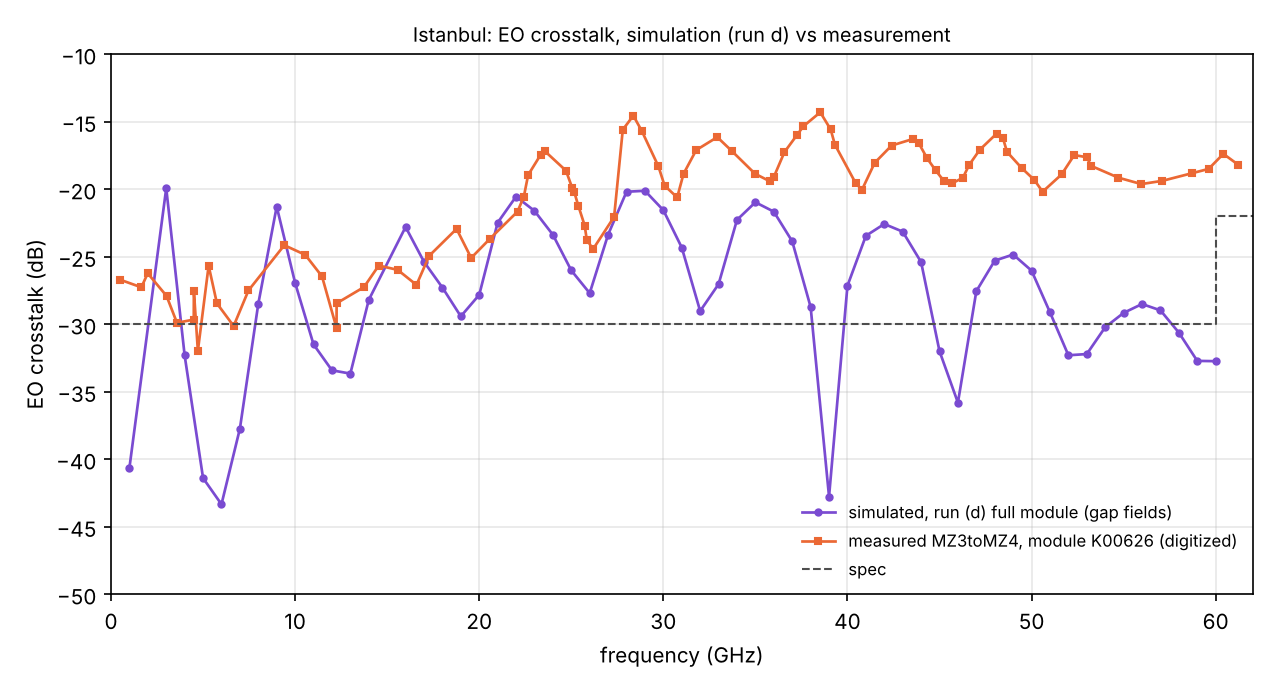
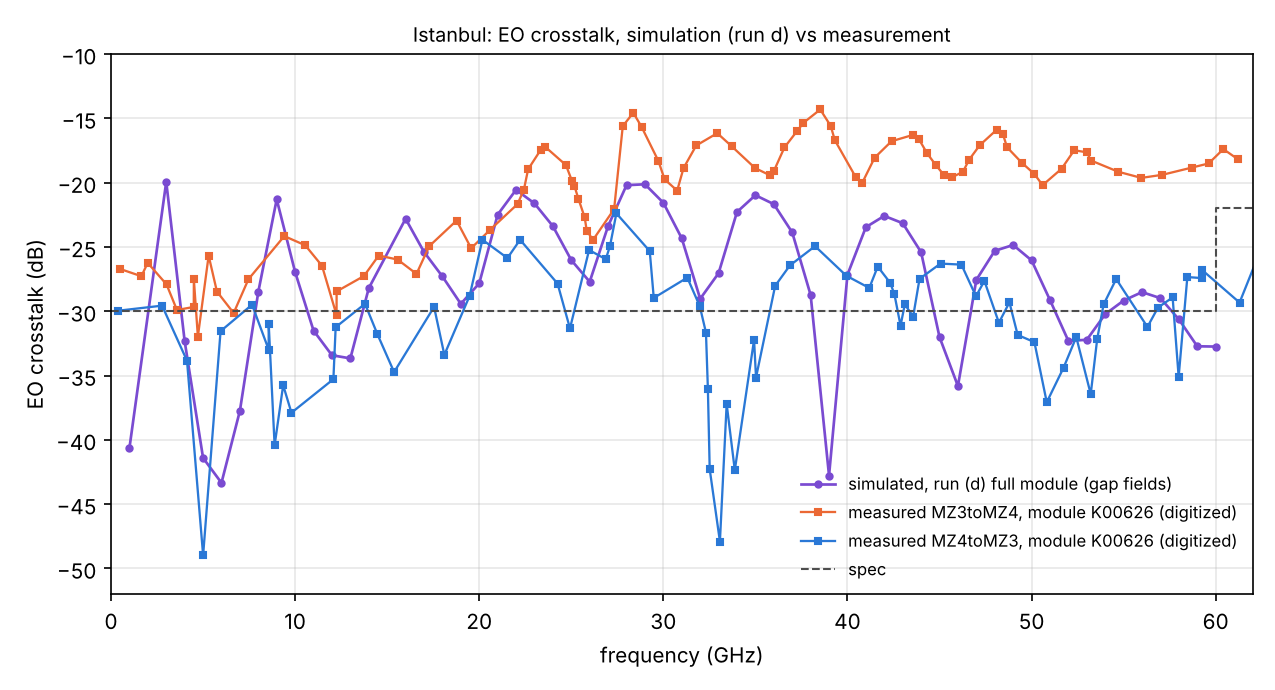
Istanbul run (d): add measured MZ4toMZ3 (digitized) to the simulation-measurement comparison
Claude-Session: https://claude.ai/code/session_01PF7RKNjFsSkyjm1syGCUrV

diff --git a/docs/cst/xtalk/istanbul_run_d/compare_lab.py b/docs/cst/xtalk/istanbul_run_d/compare_lab.py
@@ -1,25 +1,28 @@
-"""Run (d) simulated EO crosstalk vs the measured curve MZ3toMZ4 (module K00626, extracted from the lab plot)."""
+"""Run (d) simulated EO crosstalk vs the measured curves MZ3toMZ4 and MZ4toMZ3 (module K00626, digitized from the lab plot).
+MZ4toMZ3: axis mapping assumed (see lab_MZ4toMZ3_extracted.csv)."""
 import os
 import numpy as np, matplotlib
 matplotlib.use("Agg"); import matplotlib.pyplot as plt
 HERE = os.path.dirname(os.path.abspath(__file__))
 s = np.loadtxt(os.path.join(HERE, "xtalk_run_d.csv"), delimiter=",", skiprows=1)
-m = np.loadtxt(os.path.join(HERE, "lab_MZ3toMZ4_extracted.csv"), delimiter=",", skiprows=2)
-m = m[np.argsort(m[:, 0])]
+rd = lambda n, sk: (lambda a: a[np.argsort(a[:, 0])])(np.loadtxt(os.path.join(HERE, n), delimiter=",", skiprows=sk))
+M = {"MZ3toMZ4": rd("lab_MZ3toMZ4_extracted.csv", 2), "MZ4toMZ3": rd("lab_MZ4toMZ3_extracted.csv", 3)}
 fs, eo = s[:, 0], s[:, 3]
 def period(f, y, lo=5, hi=60, df=0.1):
     g = np.arange(lo, hi, df); v = np.interp(g, f, y); v -= v.mean()
     sp = np.abs(np.fft.rfft(v * np.hanning(len(v)))); fr = np.fft.rfftfreq(len(v), df)
     k = (fr > 1 / 15) & (fr < 1 / 2); return 1 / fr[k][np.argmax(sp[k])]
-km, ks = (m[:, 0] >= 5) & (m[:, 0] <= 60), (fs >= 5)
-g = np.arange(5, 60.01, 0.5); mi = np.interp(g, m[:, 0], m[:, 1])  # uniform grid: digitized points are unevenly spaced
-print(f"median 5-60 GHz: measured {np.median(mi):.1f} dB (uniform grid), simulated {np.median(eo[ks]):.1f} dB")
-print(f"max 5-60 GHz: measured {mi.max():.1f} dB, simulated {eo[ks].max():.1f} dB")
-print(f"ripple period 5-60 GHz: measured {period(*m.T):.1f} GHz, simulated {period(fs, eo):.1f} GHz")
+ks = fs >= 5
+g = np.arange(5, 60.01, 0.5)  # uniform grid: digitized points are unevenly spaced
+print(f"simulated: median {np.median(eo[ks]):.1f} dB, max {eo[ks].max():.1f} dB, ripple period {period(fs, eo):.1f} GHz (5-60 GHz)")
+for k, m in M.items():
+    mi = np.interp(g, m[:, 0], m[:, 1])
+    print(f"{k}: median {np.median(mi):.1f} dB, max {mi.max():.1f} dB, ripple period {period(*m.T):.1f} GHz (5-60 GHz, uniform grid)")
 fig, ax = plt.subplots(figsize=(8.5, 4.6))
 ax.plot(fs, eo, "o-", color="#7a4bd1", ms=3, lw=1.3, label="simulated, run (d) full module (gap fields)")
-ax.plot(m[:, 0], m[:, 1], "s-", color="#eb6834", ms=3, lw=1.3, label="measured MZ3toMZ4, module K00626 (digitized)")
+for (k, m), c in zip(M.items(), ("#eb6834", "#2a78d6")):
+    ax.plot(m[:, 0], m[:, 1], "s-", color=c, ms=3, lw=1.1, label=f"measured {k}, module K00626 (digitized)")
 ax.plot([0, 60, 60, 62], [-30, -30, -22, -22], color="0.3", lw=1, ls="--", label="spec")
-ax.set_xlim(0, 62); ax.set_ylim(-50, -10); ax.set_xlabel("frequency (GHz)"); ax.set_ylabel("EO crosstalk (dB)"); ax.grid(alpha=0.3)
+ax.set_xlim(0, 62); ax.set_ylim(-52, -10); ax.set_xlabel("frequency (GHz)"); ax.set_ylabel("EO crosstalk (dB)"); ax.grid(alpha=0.3)
 ax.set_title("Istanbul: EO crosstalk, simulation (run d) vs measurement", fontsize=9.5)
 ax.legend(frameon=False, fontsize=8, loc="lower right"); fig.tight_layout(); fig.savefig(os.path.join(HERE, "sim_vs_lab.png"), dpi=150)

diff --git a/docs/cst/xtalk/istanbul_run_d/README.md b/docs/cst/xtalk/istanbul_run_d/README.md
@@ -39,3 +39,12 @@ measured vs about 6.5-7 GHz simulated (the estimate depends on the method: 6.4 f
 Below about 25 GHz the two agree within a few dB; above about 27 GHz the measured curve is 5-8 dB higher.
 The simulation reproduces the order of magnitude and the rippled shape, but it underestimates this pair. The other
 measured pairs are lower (about -30 to -20 dB), so part of the gap is pair-to-pair spread.
+
+### Second measured pair: MZ4toMZ3 (added 2026-11-09)
+Digitized by the user in normalized units (`lab_MZ4toMZ3_raw.txt`). Mapping ASSUMED: f = 60 GHz * x,
+dB = -50 + 50 * y; with it the three deep dips fall at 5, 33 and 75 GHz at about -48 dB, as on the lab plot.
+5-60 GHz: median -29.6 dB, max -22.5 dB (simulated -27.3 / -20.1 dB, MZ3toMZ4 -19.3 / -14.3 dB). The simulation lies
+between the two measured directions, about 2 dB above MZ4toMZ3 and 8 dB below MZ3toMZ4 (median). The ripple period
+of MZ4toMZ3 is not reliable (sparse, uneven points). The 10 dB difference between the two directions of the same pair
+is larger than the simulation error; the simulated geometry is mirror-symmetric only if the two lines' surroundings
+are, which is not verified.
